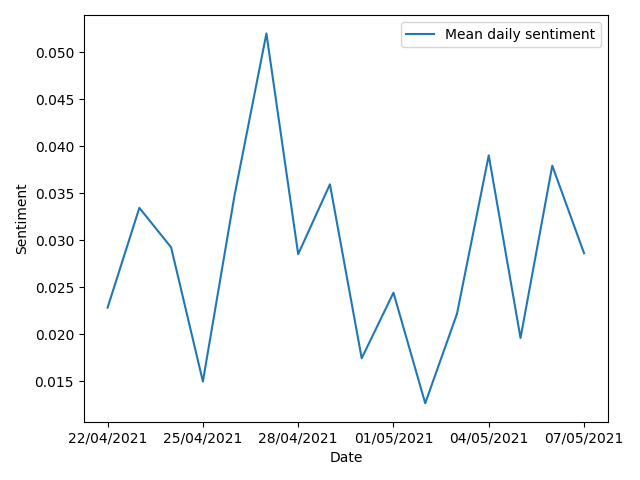
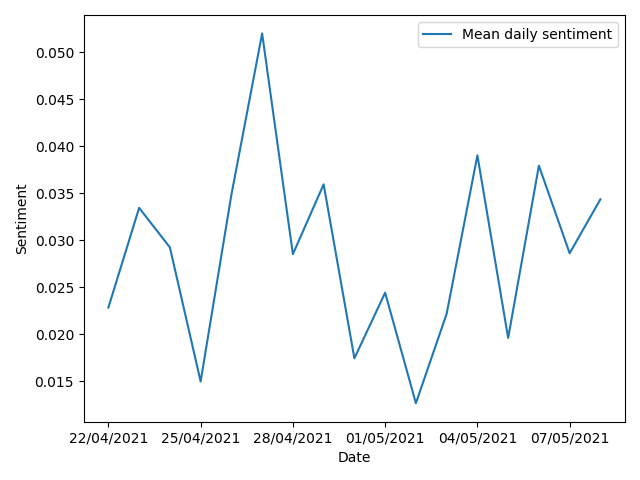
Automatic update (gitControl.py)

diff --git a/README.md b/README.md
@@ -3,7 +3,7 @@
 World news sentiment data, updated at 07:00 daily.
 
 **Started:** `22/04/2021`<br>
-**Updated:** `07/05/2021, 07:00:45`<br>
+**Updated:** `08/05/2021, 07:00:39`<br>
 **Sources:** `BBC News, Sky, Reuters, r/worldnews, r/news`
 
 <img src="https://user-images.githubusercontent.com/25552804/115932698-55adef00-a485-11eb-82bb-2265c0821ca0.png" width="20%" height="20%">

diff --git a/docs/index.md b/docs/index.md
@@ -3,7 +3,7 @@
 World news sentiment data, updated at 07:00 daily.
 
 **Started:** `22/04/2021`<br>
-**Updated:** `07/05/2021, 07:00:45`<br>
+**Updated:** `08/05/2021, 07:00:39`<br>
 **Sources:** `BBC News, Sky, Reuters, r/worldnews, r/news`
 
 <img src="https://user-images.githubusercontent.com/25552804/115932698-55adef00-a485-11eb-82bb-2265c0821ca0.png" width="20%" height="20%">
